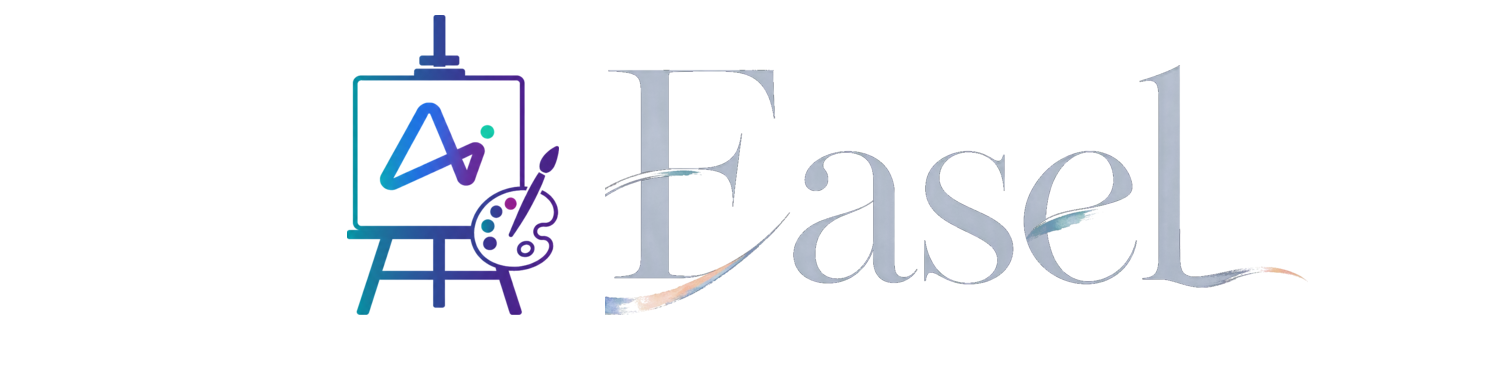
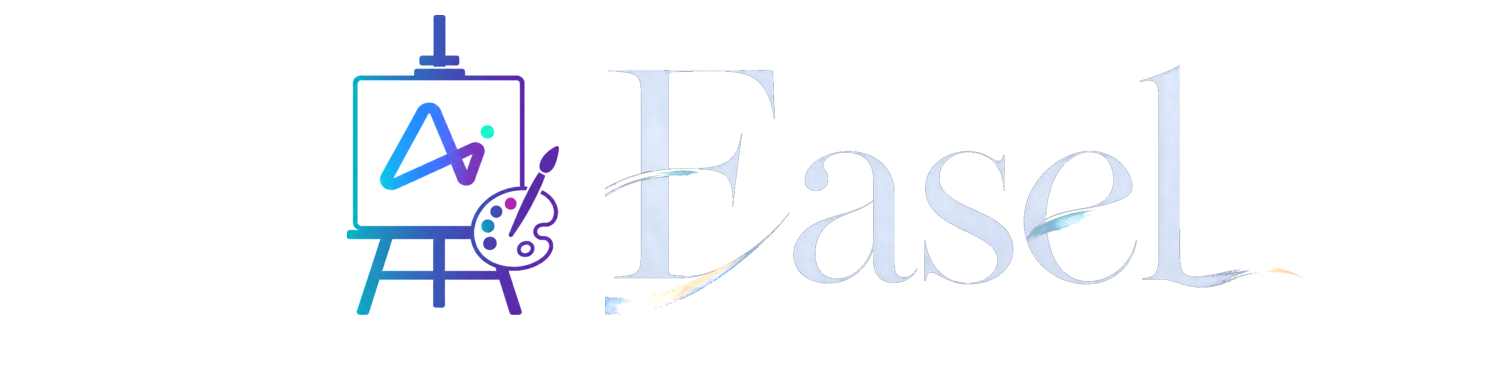
docs: improve dark-mode README branding

diff --git a/README.md b/README.md
@@ -1,7 +1,13 @@
 <p align="left">
-  <img src="assets/readme/logos/zhejiang_university_horizontal.png" width="106" align="middle" alt="Zhejiang University">
+  <picture>
+    <source media="(prefers-color-scheme: dark)" srcset="assets/readme/logos/zhejiang_university_horizontal_dark.png">
+    <img src="assets/readme/logos/zhejiang_university_horizontal.png" width="106" align="middle" alt="Zhejiang University">
+  </picture>
   &nbsp;&nbsp;&nbsp;
-  <img src="assets/readme/logos/peking_university_horizontal_red.png" width="98" align="middle" alt="Peking University">
+  <picture>
+    <source media="(prefers-color-scheme: dark)" srcset="assets/readme/logos/peking_university_horizontal_dark.png">
+    <img src="assets/readme/logos/peking_university_horizontal_red.png" width="98" align="middle" alt="Peking University">
+  </picture>
 </p>
 
 <p align="center">
@@ -10,7 +16,7 @@
     <img src="assets/readme/brand.png" width="640" alt="Easel">
   </picture>
   <br>
-  <img src="assets/readme/logos/real_lab_horizontal_readme.png" width="74" alt="REAL Lab">&thinsp;&thinsp;<img src="assets/readme/logos/opendcai_lab_horizontal_readme.png" width="83" alt="OpenDCAI Lab">
+  <img src="assets/readme/logos/real_lab_horizontal_readme.png" width="74" alt="REAL Lab">&thinsp;&thinsp;<picture><source media="(prefers-color-scheme: dark)" srcset="assets/readme/logos/opendcai_lab_horizontal_readme_dark.png"><img src="assets/readme/logos/opendcai_lab_horizontal_readme.png" width="83" alt="OpenDCAI Lab"></picture>
 </p>
 
 <p align="center">

diff --git a/README_EN.md b/README_EN.md
@@ -1,7 +1,13 @@
 <p align="left">
-  <img src="assets/readme/logos/zhejiang_university_horizontal.png" width="106" align="middle" alt="Zhejiang University">
+  <picture>
+    <source media="(prefers-color-scheme: dark)" srcset="assets/readme/logos/zhejiang_university_horizontal_dark.png">
+    <img src="assets/readme/logos/zhejiang_university_horizontal.png" width="106" align="middle" alt="Zhejiang University">
+  </picture>
   &nbsp;&nbsp;&nbsp;
-  <img src="assets/readme/logos/peking_university_horizontal_red.png" width="98" align="middle" alt="Peking University">
+  <picture>
+    <source media="(prefers-color-scheme: dark)" srcset="assets/readme/logos/peking_university_horizontal_dark.png">
+    <img src="assets/readme/logos/peking_university_horizontal_red.png" width="98" align="middle" alt="Peking University">
+  </picture>
 </p>
 
 <p align="center">
@@ -10,7 +16,7 @@
     <img src="assets/readme/brand.png" width="640" alt="Easel">
   </picture>
   <br>
-  <img src="assets/readme/logos/real_lab_horizontal_readme.png" width="74" alt="REAL Lab">&thinsp;&thinsp;<img src="assets/readme/logos/opendcai_lab_horizontal_readme.png" width="83" alt="OpenDCAI Lab">
+  <img src="assets/readme/logos/real_lab_horizontal_readme.png" width="74" alt="REAL Lab">&thinsp;&thinsp;<picture><source media="(prefers-color-scheme: dark)" srcset="assets/readme/logos/opendcai_lab_horizontal_readme_dark.png"><img src="assets/readme/logos/opendcai_lab_horizontal_readme.png" width="83" alt="OpenDCAI Lab"></picture>
 </p>
 
 <p align="center">
